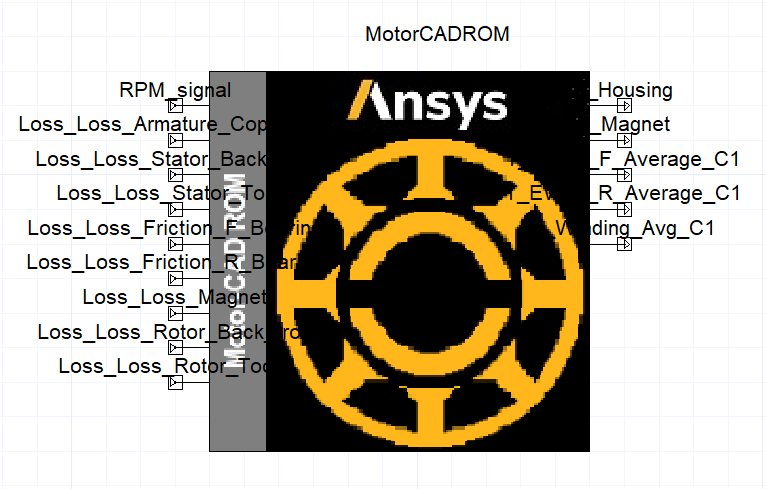
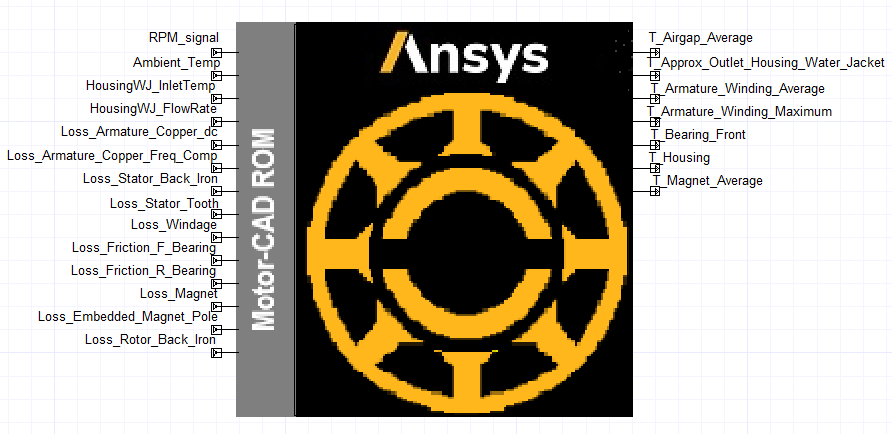
docs changes

diff --git a/examples/links/thermal_twinbuilder.py b/examples/links/thermal_twinbuilder.py
@@ -23,37 +23,56 @@
 """
 Motor-CAD Thermal Twin Builder ROM
 =================================
-This example shows how to create the files needed to generate a Motor-CAD Thermal model using the
-Twin Builder *Motor-CAD ROM* component.
+This example shows how to use a Motor-CAD model to create a Thermal ROM (reduced order model) in
+Ansys Twin Builder.
 """
 # sphinx_gallery_thumbnail_path = 'images/Thermal_Twinbuilder_TwinBuilderROM_Zoom.png'
 # %%
 # Background
 # ----------
-# .. important:: The Twin Builder *Motor-CAD ROM* component is available in Twin Builder 2024 R2 or
-#    later.
+# .. important:: We strongly recommend using *Ansys Twin Builder 2026 R1 or newer*, as it introduces
+#    significant new ROM capabilities.
 #
-# Motor-CAD creates a thermal model of the motor using a Lumped Parameter Thermal Network (LPTN),
-# which allows the machine temperatures to be calculated. This LPTN thermal model can be formulated
-# as a set of thermal matrices. Motor-CAD provides the capability to export these, allowing the
-# thermal model to be imported into other engineering software packages. In general, the exported
-# model is accurate at a single speed, housing temperature, and airgap temperature ("operating
-# point").
+# Several options exist to create a Reduced Order Model (ROM) from a Motor-CAD Thermal Model. The
+# most comprehensive and recommended option is to use this workflow to create a ROM in Ansys Twin
+# Builder. The process has two steps:
 #
-# In Twin Builder 2024 R2 and later, a *Motor-CAD ROM* component can be created which extends upon
-# this idea, allowing for the creation of a Motor-CAD thermal model that is valid at a range of
-# operating points. It does this by utilizing data exported from several discrete operating points
-# to generate the component, and then automatically interpolating between these during a solve. The
-# component also solves the coolant flow model, ensuring accuracy for Motor-CAD models with cooling
-# systems enabled.
+# 1. Run this python script, which will run Motor-CAD to generate training data for the ROM. You
+# will need to set appropriate values in the script, such as the .mot file location, speeds and flow
+# rates of interest etc.
+# 
+# 2. In Twin Builder, select this training data within the Motor-CAD ROM wizard. This will
+# automatically generate the ROM.
 #
 # .. image:: ../../images/Thermal_Twinbuilder_TwinBuilderROM.png
 #
-# The *Motor-CAD ROM* component is quick to set up and provides a significantly more accurate model
-# compared to the single operating point export. It has a user friendly interface with losses and
-# RPM as input pins, and component temperatures as output pins. Once generated, the component is
+# The ROM will be valid for the full range of operating points chosen when generating the training
+# data, automatically intepolating between these during a solve. Key features of the ROM include:
+#
+# * Automatically create input pins for each loss type, including any defined custom losses
+#
+# * Handle models with any cooling system, including coupled cooling systems
+#
+# * Include the effect of variable speed, if enabled
+#
+# * Include the effect of variable coolant flow rate and inlet temperature, if enabled
+#
+# * Include the effect of natural convection and radiation, if enabled
+#
+# * Include the effect of temperature on the airgap heat transfer, if enabled
+#
+# * Provide as input pins any fixed temperature nodes
+#
+# * Allow arbitrary temperature initialization per machine component
+#
+# * Provide as output pins post processed temperatures for solids (e.g. Armature Winding Average 
+# Temperature) and coolant flows (e.g. Housing Water Jacket Outlet Temperature)
+#
+# The ROM component has been designed to require minimal setup expertise, quick setup time and high
+# solve accuracy, with the user friendly input and output pins ensuring ease of use. The ROM is also
 # standalone (does not require Motor-CAD), thus allowing it to be shared/used in alternate systems
-# whilst obscuring the underlying Motor-CAD geometry.
+# whilst obscuring the underlying Motor-CAD geometry. The ROM can also be exported from Twin Builder
+# as an FMU, which can then be deployed within a wide range of FMU compatible tools. 
 
 # %%
 # Data required to generate a *Motor-CAD ROM* component
@@ -363,8 +382,7 @@ class MotorCADTwinModel:
         )
         logging.getLogger().addHandler(logging.StreamHandler())
         logger.info("Python script execution initiated")
-        logger.info("Motor-CAD input file: " + self.inputMotFilePath)
-        logger.info("Training data output directory: " + self.outputDirectory)
+        logger.info("Input Motor-CAD file: " + self.inputMotFilePath)
 
         self.motFileName = None
         self.motFilePath = None
@@ -445,6 +463,7 @@ class MotorCADTwinModel:
         self.FixedTemperaturesWorkaround()
 
         self.mcad.quit()
+        logger.info("Twin Builder Input Files: " + self.outputDirectory)
         logger.info("Python script execution completed")
 
     # Helper functions to parse the exported Motor-CAD matrices (``.cmf``, ``.nmf``, ``.pmf``,
